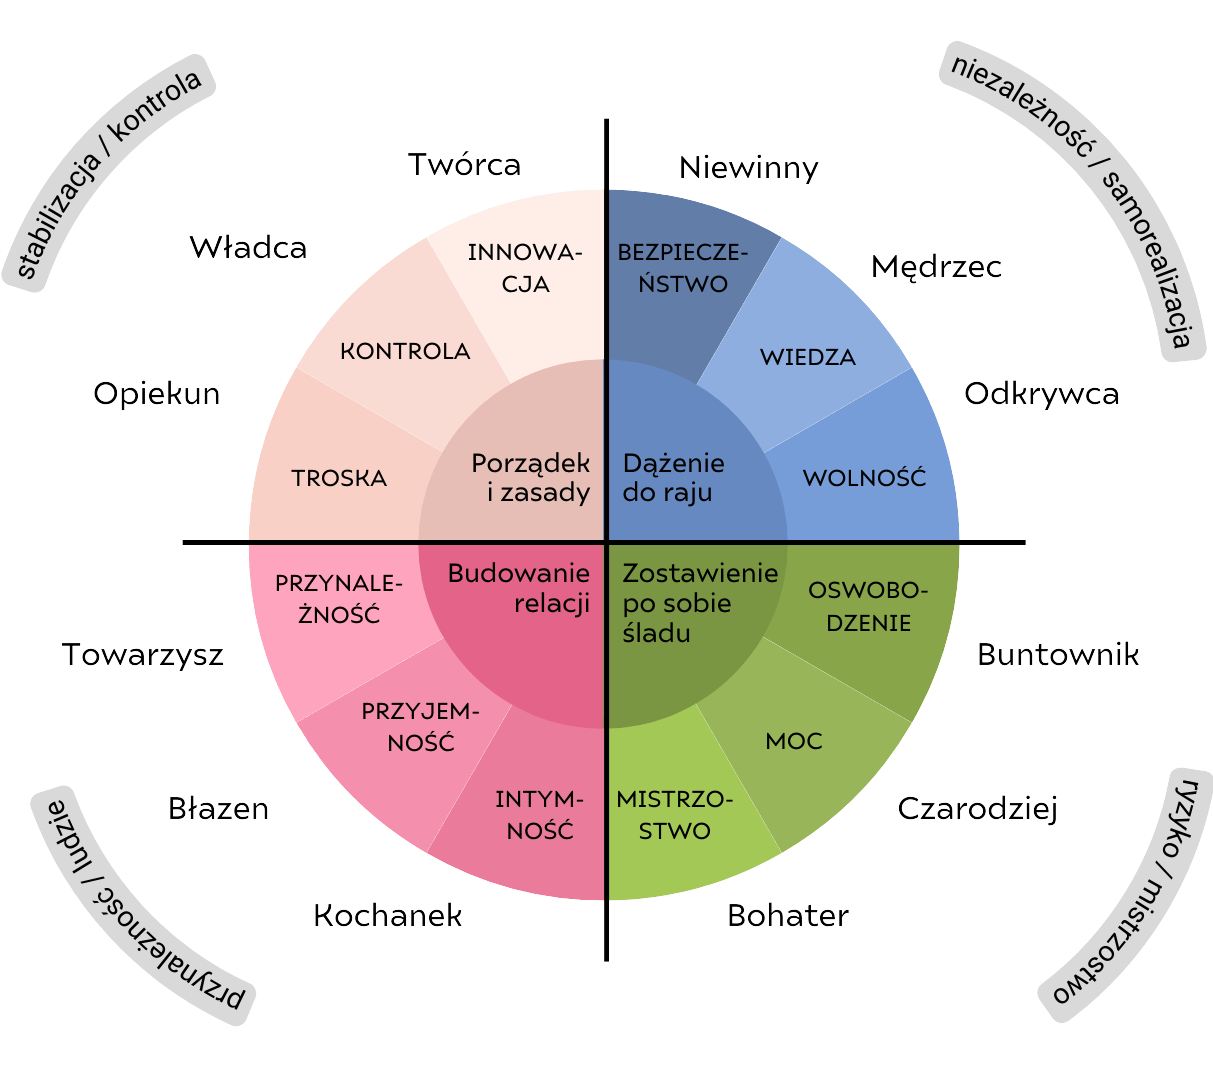
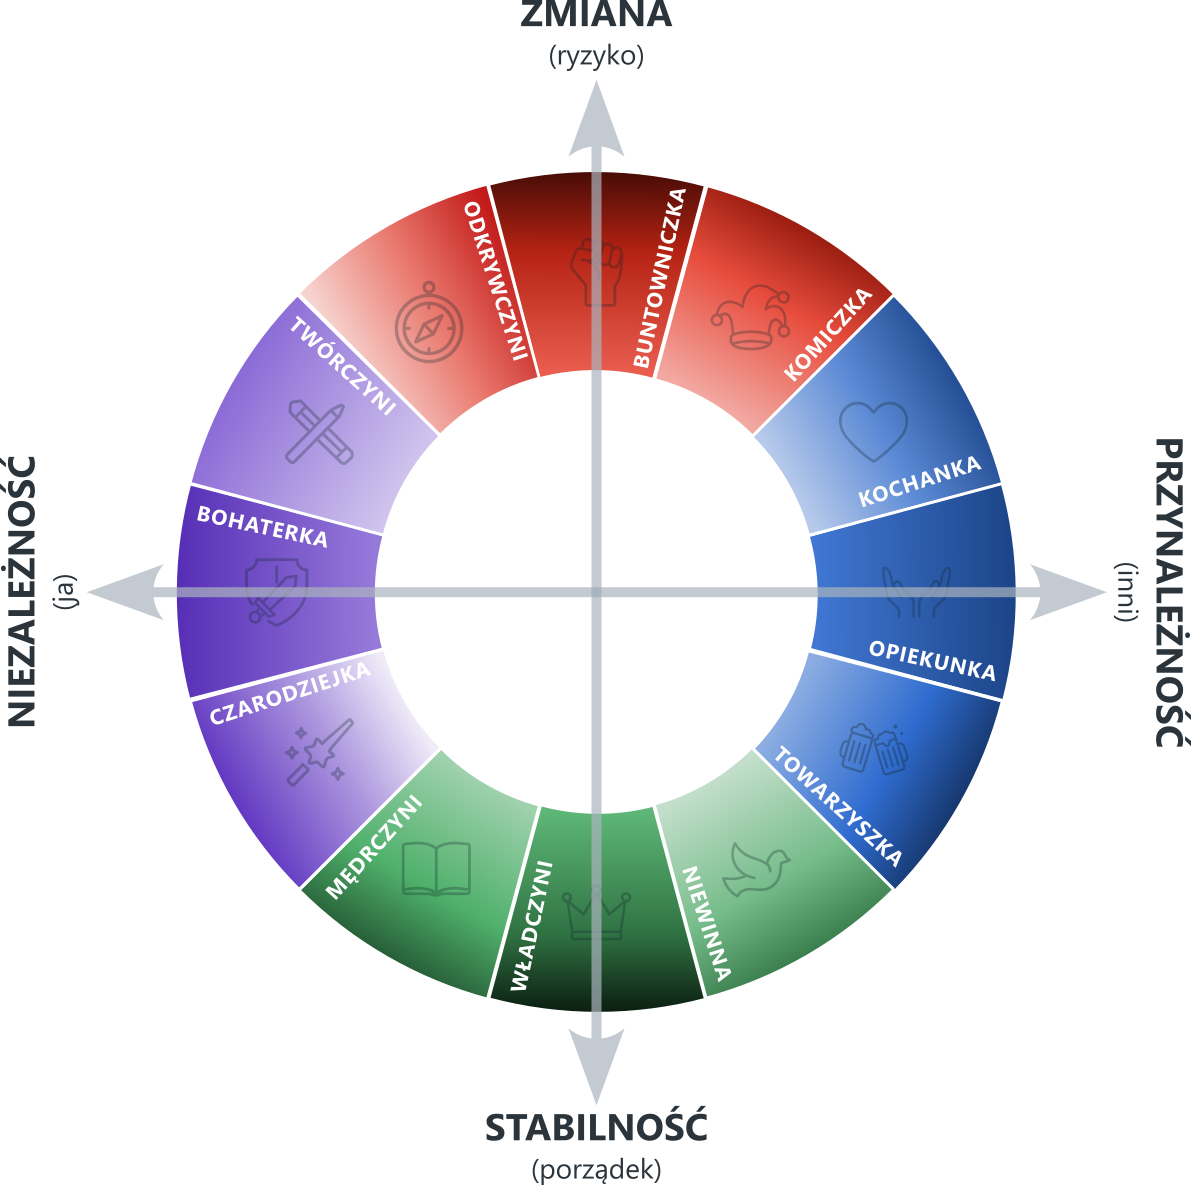
kobiety-wykresy

diff --git a/admin_dashboard.py b/admin_dashboard.py
@@ -2717,13 +2717,23 @@ def ap_section_heading(
 ARCHE_NAME_TO_IDX = {n.lower(): i for i, n in enumerate(ARCHE_NAMES_ORDER)}
 
 @st.cache_data
-def load_base_arche_img():
-    p = Path(__file__).with_name("assets").joinpath("archetype_wheel.png")
-    return Image.open(p).convert("RGBA")
+def load_base_arche_img(gender_code: str = "M"):
+    assets_dir = Path(__file__).with_name("assets")
+    g = normalize_gender(gender_code)
+    candidates = (
+        ["archetype_wheel_female.png", "archetype_wheel.png"]
+        if g == "K"
+        else ["archetype_wheel_male.png", "archetype_wheel.png"]
+    )
+    for name in candidates:
+        p = assets_dir.joinpath(name)
+        if p.exists():
+            return Image.open(p).convert("RGBA")
+    raise FileNotFoundError(f"Brak pliku koła archetypów. Szukano: {candidates}")
 
 
-def mask_for(idx, color):
-    base = load_base_arche_img()
+def mask_for(idx, color, gender_code: str = "M"):
+    base = load_base_arche_img(gender_code)
     w, h = base.size
     cx, cy = w//2, h//2
     rad = w//2
@@ -2734,22 +2744,22 @@ def mask_for(idx, color):
     draw.pieslice([cx-rad, cy-rad, cx+rad, cy+rad], start, end, fill=color)
     return mask
 
-def compose_archetype_highlight(idx_main, idx_aux=None, idx_supplement=None):
-    base = load_base_arche_img().copy()
+def compose_archetype_highlight(idx_main, idx_aux=None, idx_supplement=None, gender_code: str = "M"):
+    base = load_base_arche_img(gender_code).copy()
 
     # Najpierw poboczny (żeby nakryło go potem żółte/czerwone, jeśli overlap)
     if idx_supplement is not None and idx_supplement not in [idx_main, idx_aux] and idx_supplement < 12:
-        mask_supplement = mask_for(idx_supplement, (64,185,0,140))  # zielony półtransparentny
+        mask_supplement = mask_for(idx_supplement, (64,185,0,140), gender_code=gender_code)  # zielony półtransparentny
         base.alpha_composite(mask_supplement)
 
     # Potem wspierający
     if idx_aux is not None and idx_aux != idx_main and idx_aux < 12:
-        mask_aux = mask_for(idx_aux, (255,210,47,140))  # żółty
+        mask_aux = mask_for(idx_aux, (255,210,47,140), gender_code=gender_code)  # żółty
         base.alpha_composite(mask_aux)
 
     # Na końcu główny (przykrywa wszystko)
     if idx_main is not None:
-        mask_main = mask_for(idx_main, (255,0,0,140))  # czerwony
+        mask_main = mask_for(idx_main, (255,0,0,140), gender_code=gender_code)  # czerwony
         base.alpha_composite(mask_main)
 
     return base
@@ -2762,18 +2772,25 @@ KOLO_NAMES_ORDER = [
 ANGLE_OFFSET_DEG = -15  # przesunięcie o 2.5 min w lewo (2.5 × 6° = 15°)
 
 @st.cache_data
-def load_axes_wheel_img():
+def load_axes_wheel_img(gender_code: str = "M"):
     base_dir = Path(__file__).with_name("assets")
-    png = base_dir / "archetypy_kolo.png"
-    if png.exists():
-        return Image.open(png).convert("RGBA")
-    svg = base_dir / "archetypy_kolo.svg"
-    if svg.exists():
+    g = normalize_gender(gender_code)
+    candidates = (
+        [("png", "archetypy_kolo_female.png"), ("svg", "archetypy_kolo2.svg"), ("png", "archetypy_kolo.png")]
+        if g == "K"
+        else [("png", "archetypy_kolo.png"), ("svg", "archetypy_kolo2_male.svg"), ("svg", "archetypy_kolo2.svg")]
+    )
+    for ftype, name in candidates:
+        p = base_dir / name
+        if not p.exists():
+            continue
+        if ftype == "png":
+            return Image.open(p).convert("RGBA")
         import cairosvg
         from io import BytesIO
-        buf = BytesIO(cairosvg.svg2png(url=str(svg)))
+        buf = BytesIO(cairosvg.svg2png(url=str(p)))
         return Image.open(buf).convert("RGBA")
-    raise FileNotFoundError("Brak pliku assets/archetypy_kolo.(png|svg)")
+    raise FileNotFoundError(f"Brak pliku koła osi. Szukano: {candidates}")
 
 def _mask_pie_ring(base: Image.Image, idx: int, rgba,
                    r_out_frac=0.39, r_in_frac=0.10):
@@ -2801,9 +2818,9 @@ def _mask_pie_ring(base: Image.Image, idx: int, rgba,
     base.alpha_composite(layer)
     return base
 
-def compose_axes_wheel_highlight(main_name, aux_name=None, supp_name=None) -> Image.Image:
+def compose_axes_wheel_highlight(main_name, aux_name=None, supp_name=None, gender_code: str = "M") -> Image.Image:
     """Koło z podświetleniem: zielony (poboczny), żółty (wspierający), czerwony (główny)."""
-    img = load_axes_wheel_img().copy()
+    img = load_axes_wheel_img(gender_code).copy()
 
     def idx(n):
         try:
@@ -8044,11 +8061,16 @@ def show_report(sb, study: dict, wide: bool = True, public_view: bool = False) -
                             archetype_name_to_img_idx(supp_avg) if supp_avg not in [main_avg, aux_avg] else None
                         )
                         try:
-                            kola_img = compose_archetype_highlight(idx_main_wheel, idx_aux_wheel, idx_supp_wheel)
+                            kola_img = compose_archetype_highlight(
+                                idx_main_wheel,
+                                idx_aux_wheel,
+                                idx_supp_wheel,
+                                gender_code=report_gender_code,
+                            )
                             if not isinstance(kola_img, Image.Image):
                                 raise TypeError("compose_archetype_highlight nie zwrócił obrazu PIL")
                         except Exception:
-                            kola_img = load_base_arche_img()
+                            kola_img = load_base_arche_img(gender_code=report_gender_code)
                         st.image(
                             kola_img,
                             caption="Podświetlenie: główny – czerwony, wspierający – żółty, poboczny – zielony",
@@ -8073,11 +8095,16 @@ def show_report(sb, study: dict, wide: bool = True, public_view: bool = False) -
                                 archetype_name_to_img_idx(supp_avg) if supp_avg not in [main_avg, aux_avg] else None
                             )
                             try:
-                                kola_img = compose_archetype_highlight(idx_main_wheel, idx_aux_wheel, idx_supp_wheel)
+                                kola_img = compose_archetype_highlight(
+                                    idx_main_wheel,
+                                    idx_aux_wheel,
+                                    idx_supp_wheel,
+                                    gender_code=report_gender_code,
+                                )
                                 if not isinstance(kola_img, Image.Image):
                                     raise TypeError("compose_archetype_highlight nie zwrócił obrazu PIL")
                             except Exception:
-                                kola_img = load_base_arche_img()
+                                kola_img = load_base_arche_img(gender_code=report_gender_code)
                             st.image(
                                 kola_img,
                                 caption="Podświetlenie: główny – czerwony, wspierający – żółty, poboczny – zielony",
@@ -8117,7 +8144,7 @@ def show_report(sb, study: dict, wide: bool = True, public_view: bool = False) -
                     )
                     aux = aux_avg if aux_avg != main_avg else None
                     supp = supp_avg if supp_avg not in [main_avg, aux_avg] else None
-                    kolo_axes_img = compose_axes_wheel_highlight(main_avg, aux, supp)
+                    kolo_axes_img = compose_axes_wheel_highlight(main_avg, aux, supp, gender_code=report_gender_code)
                     st.image(kolo_axes_img, use_column_width=True)
                 else:
                     k_pad_l, k_mid, k_pad_r = st.columns([0.09, 0.88, 0.03], gap="small")
@@ -8133,7 +8160,7 @@ def show_report(sb, study: dict, wide: bool = True, public_view: bool = False) -
                         )
                         aux = aux_avg if aux_avg != main_avg else None
                         supp = supp_avg if supp_avg not in [main_avg, aux_avg] else None
-                        kolo_axes_img = compose_axes_wheel_highlight(main_avg, aux, supp)
+                        kolo_axes_img = compose_axes_wheel_highlight(main_avg, aux, supp, gender_code=report_gender_code)
                         st.image(kolo_axes_img, width=axes_img_width)
 
             segment_profile_png_path = make_segment_profile_wheel_png(
@@ -8227,7 +8254,7 @@ def show_report(sb, study: dict, wide: bool = True, public_view: bool = False) -
                 # 2) Koło osi potrzeb → PNG
                 aux = aux_avg if aux_avg != main_avg else None
                 supp = supp_avg if supp_avg not in [main_avg, aux_avg] else None
-                kolo_axes_img = compose_axes_wheel_highlight(main_avg, aux, supp)
+                kolo_axes_img = compose_axes_wheel_highlight(main_avg, aux, supp, gender_code=report_gender_code)
                 kolo_axes_img.save("axes_wheel.png")
 
                 # 3) Dominujący pierścień koloru → SVG/PNG
@@ -8263,7 +8290,12 @@ def show_report(sb, study: dict, wide: bool = True, public_view: bool = False) -
                 idx_aux = archetype_name_to_img_idx(aux_avg) if aux_avg != main_avg else None
                 idx_supp = archetype_name_to_img_idx(supp_avg) if supp_avg not in [main_avg,
                                                                                    aux_avg] else None
-                panel_img = compose_archetype_highlight(idx_main, idx_aux, idx_supp)
+                panel_img = compose_archetype_highlight(
+                    idx_main,
+                    idx_aux,
+                    idx_supp,
+                    gender_code=report_gender_code,
+                )
                 panel_img_path = f"panel_{(main_avg or '').lower()}_{(aux_avg or '').lower()}_{(supp_avg or '').lower()}.png"
                 panel_img.save(panel_img_path)
 
